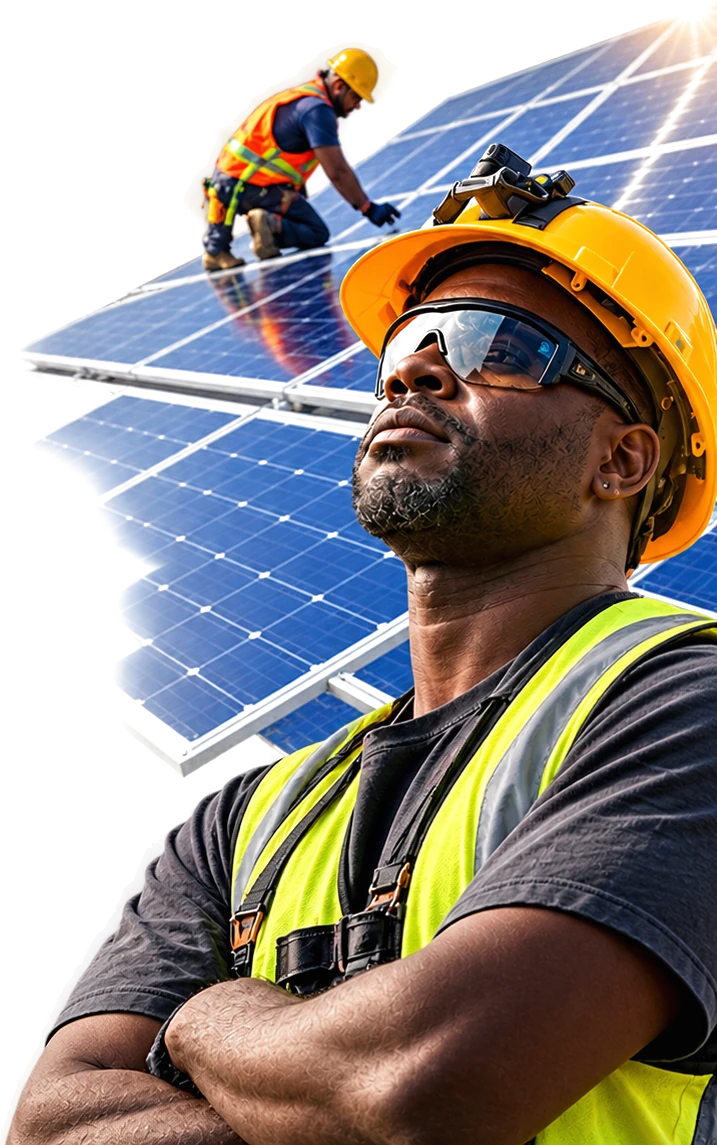
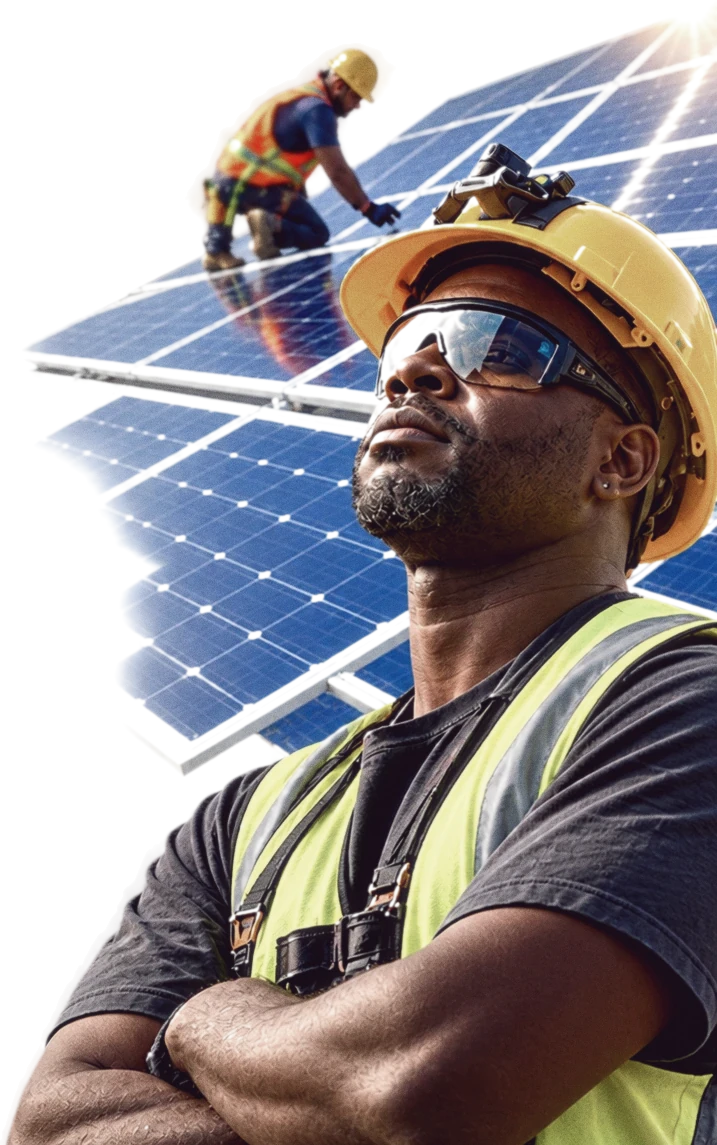
Rebuild the work gallery tile and grade the hero figure
The gallery tiles were a spec line, a title and a paragraph on bare card.
They now lead with a 3:2 media field carrying a numbered blueprint plate
(placeholder until the job is photographed), then title, two-line summary,
and a hairline footer with site and handover month. Nothing is borrowed
from the linked service record.

The hero figure was re-graded to match real site photography: filmic
roll-off, navy-keyed split tone, shallow DOF on the far worker, halation
and grain.

Email config switches to info@voltpro.co.ke.

diff --git a/static/core/css/style.css b/static/core/css/style.css
@@ -3052,3 +3052,55 @@ p{ text-wrap: pretty; }
   .hero > .wrap{ order: 1; }
   .hero-figure{ order: 2; position: static; display: block; height: auto; width: min(78%, 430px); margin: 26px auto 0; }
 }
+
+
+/* =========================================================
+   PASS 15 - the work gallery.
+   The tiles were a spec line, a title and a paragraph on a bare card. They
+   now lead with the job's own 3:2 photograph, then title, then a two-line
+   summary, with the location and handover date pushed down to a hairline
+   footer. No project is photographed yet, so the media block also carries a
+   numbered plate behind the image: it is what shows while a job has no photo
+   of its own, and it borrows nothing from the linked service.
+   ========================================================= */
+.gallery-grid{ grid-template-columns: repeat(3, 1fr); gap: 26px; }
+.gallery-item{ display: flex; flex-direction: column; }
+.gallery-media{
+  flex: none; position: relative; aspect-ratio: 3 / 2;
+  background-color: var(--ink); background-image: var(--grad-navy);
+}
+.gallery-image{ position: relative; object-position: center 38%; }
+.gallery-plate{
+  position: absolute; inset: 0; display: grid; place-items: center;
+  font-family: var(--font-mono); font-size: 58px; font-weight: 600; letter-spacing: .06em;
+  color: rgba(232, 238, 251, .16);
+}
+/* the shimmer is a loading state; a plate is not loading, so it keeps the same
+   blueprint texture the navy bands use. The .js prefix is what outranks the
+   shimmer rule's own .js selector. */
+.js .gallery-media:not(:has(img)){
+  animation: none;
+  background-image:
+    linear-gradient(rgba(255,255,255,.055) 1px, transparent 1px),
+    linear-gradient(90deg, rgba(255,255,255,.055) 1px, transparent 1px),
+    var(--grad-navy);
+  background-size: 56px 56px, 56px 56px, auto;
+}
+.gallery-info{ flex: 1 1 auto; display: flex; flex-direction: column; padding: 20px 22px 22px; }
+.gallery-info h3{ margin-top: 2px; }
+.gallery-summary{
+  font-size: 14px; line-height: 1.55; color: var(--text-muted); margin: 9px 0 0;
+  display: -webkit-box; -webkit-box-orient: vertical; -webkit-line-clamp: 2; overflow: hidden;
+}
+/* the meta row reads as a footer: it sits under a hairline, pinned to the base
+   of the tile so a short summary cannot leave the dates floating. The place and
+   the handover month face each other across it, and the date never breaks. */
+.gallery-spec{
+  margin: auto 0 0; padding-top: 13px; border-top: 1px solid var(--line-bright);
+  font-size: 11px; letter-spacing: .08em;
+  display: flex; flex-wrap: wrap; justify-content: space-between; gap: 4px 14px;
+}
+.gallery-spec-date{ margin-left: auto; white-space: nowrap; }
+@media (max-width: 980px){ .gallery-grid{ grid-template-columns: repeat(2, 1fr); } }
+@media (max-width: 640px){ .gallery-grid{ gap: 16px; } .gallery-info{ padding: 16px; } }
+@media (max-width: 560px){ .gallery-grid{ grid-template-columns: 1fr; } }

diff --git a/templates/core/_project_card.html b/templates/core/_project_card.html
@@ -1,0 +1,37 @@
+{% comment %}
+Usage: {% include "core/_project_card.html" with project=project %}
+{% endcomment %}
+<article class="gallery-item">
+  {% if project.video %}
+  <div class="gallery-media">
+    <video controls muted preload="metadata" class="gallery-video">
+      <source src="{{ project.video.url }}" type="video/mp4">
+    </video>
+  </div>
+  {% else %}
+  <div class="gallery-media">
+    <span class="gallery-plate" aria-hidden="true">{{ forloop.counter|stringformat:"02d" }}</span>
+    {% if project.cover_image_url %}
+    <img
+      src="{{ project.cover_image_url }}"
+      alt="{{ project.title }}"
+      class="gallery-image"
+      loading="lazy"
+      decoding="async"
+      fetchpriority="low"
+      onerror="this.remove();"
+    >
+    {% endif %}
+  </div>
+  {% endif %}
+  <div class="gallery-info">
+    <h3>{{ project.title }}</h3>
+    {% if project.summary %}<p class="gallery-summary">{{ project.summary }}</p>{% endif %}
+    {% if project.location or project.completed_on %}
+    <p class="gallery-spec">
+      {% if project.location %}<span>{{ project.location }}</span>{% endif %}
+      {% if project.completed_on %}<span class="gallery-spec-date">{{ project.completed_on|date:"M Y" }}</span>{% endif %}
+    </p>
+    {% endif %}
+  </div>
+</article>

diff --git a/templates/core/work.html b/templates/core/work.html
@@ -55,26 +55,7 @@
   <div class="wrap">
     <div class="gallery-grid">
       {% for project in projects %}
-      <div class="gallery-item">
-        {% if project.video %}
-        <div class="gallery-media">
-          <video controls muted preload="metadata" class="gallery-video">
-            <source src="{{ project.video.url }}" type="video/mp4">
-          </video>
-        </div>
-        {% elif project.image %}
-        <div class="gallery-media">
-          <img src="{{ project.image.url }}" alt="{{ project.title }}" class="gallery-image" loading="lazy" decoding="async">
-        </div>
-        {% endif %}
-        <div class="gallery-info">
-          <p class="gallery-spec">
-            {% if project.service %}{{ project.service.title }}{% endif %}{% if project.location %} &middot; {{ project.location }}{% endif %}{% if project.completed_on %} &middot; {{ project.completed_on|date:"M Y" }}{% endif %}
-          </p>
-          <h3>{{ project.title }}</h3>
-          {% if project.summary %}<p>{{ project.summary }}</p>{% endif %}
-        </div>
-      </div>
+        {% include "core/_project_card.html" with project=project %}
       {% empty %}
       <div class="empty-state">
         <p>No projects to display yet. Check back soon to see our latest work!</p>

diff --git a/templates/core/home.html b/templates/core/home.html
@@ -147,23 +147,7 @@ document.addEventListener('DOMContentLoaded', function() {
     </div>
     <div class="gallery-grid">
       {% for project in projects %}
-      <div class="gallery-item">
-        {% if project.video %}
-        <div class="gallery-media">
-          <video controls muted class="gallery-video">
-            <source src="{{ project.video.url }}" type="video/mp4">
-          </video>
-        </div>
-        {% elif project.image %}
-        <div class="gallery-media">
-          <img src="{{ project.image.url }}" alt="{{ project.title }}" class="gallery-image">
-        </div>
-        {% endif %}
-        <div class="gallery-info">
-          <p class="gallery-spec">{% if project.service %}{{ project.service.title }}{% endif %}{% if project.location %} &middot; {{ project.location }}{% endif %}</p>
-          <h3>{{ project.title }}</h3>
-        </div>
-      </div>
+        {% include "core/_project_card.html" with project=project %}
       {% endfor %}
     </div>
   </div>

diff --git a/core/models.py b/core/models.py
@@ -105,6 +105,17 @@ class Project(models.Model):
     def __str__(self):
         return self.title
 
+    @property
+    def cover_image_url(self):
+        """The job's own photograph, or an empty string so the card can show its
+        placeholder plate. A project never borrows another record's photo."""
+        if not self.image:
+            return ""
+        try:
+            return self.image.url
+        except Exception:
+            return ""
+
 
 class Testimonial(models.Model):
     client_name = models.CharField(max_length=120)
@@ -374,7 +385,7 @@ class SiteConfiguration(models.Model):
         help_text="Contact email address displayed on the site"
     )
     technician_email = models.EmailField(
-        default='warrenm@voltpro.co.ke',
+        default='info@voltpro.co.ke',
         help_text="Technician email address for receiving quote notifications"
     )
 

diff --git a/core/migrations/0032_alter_siteconfiguration_technician_email.py b/core/migrations/0032_alter_siteconfiguration_technician_email.py
@@ -1,0 +1,18 @@
+# Generated by Django 5.2.17 on 2026-09-30 06:49
+
+from django.db import migrations, models
+
+
+class Migration(migrations.Migration):
+
+    dependencies = [
+        ('core', '0031_quote_standard_terms'),
+    ]
+
+    operations = [
+        migrations.AlterField(
+            model_name='siteconfiguration',
+            name='technician_email',
+            field=models.EmailField(default='info@voltpro.co.ke', help_text='Technician email address for receiving quote notifications', max_length=254),
+        ),
+    ]

diff --git a/voltpro/settings.py b/voltpro/settings.py
@@ -222,10 +222,10 @@ EMAIL_BACKEND = 'django.core.mail.backends.smtp.EmailBackend'
 EMAIL_HOST = 'smtp.hmailplus.com'
 EMAIL_PORT = 587
 EMAIL_USE_TLS = True
-EMAIL_HOST_USER = 'warrenm@voltpro.co.ke'
+EMAIL_HOST_USER = 'info@voltpro.co.ke'
 EMAIL_HOST_PASSWORD = 'Blessed@2026'
-DEFAULT_FROM_EMAIL = 'warrenm@voltpro.co.ke'
-CONTACT_EMAIL = 'warrenm@voltpro.co.ke'
+DEFAULT_FROM_EMAIL = 'info@voltpro.co.ke'
+CONTACT_EMAIL = 'info@voltpro.co.ke'
 # https://docs.djangoproject.com/en/6.1/topics/email/#topic-email-configuration
 
 MAILERS = {
